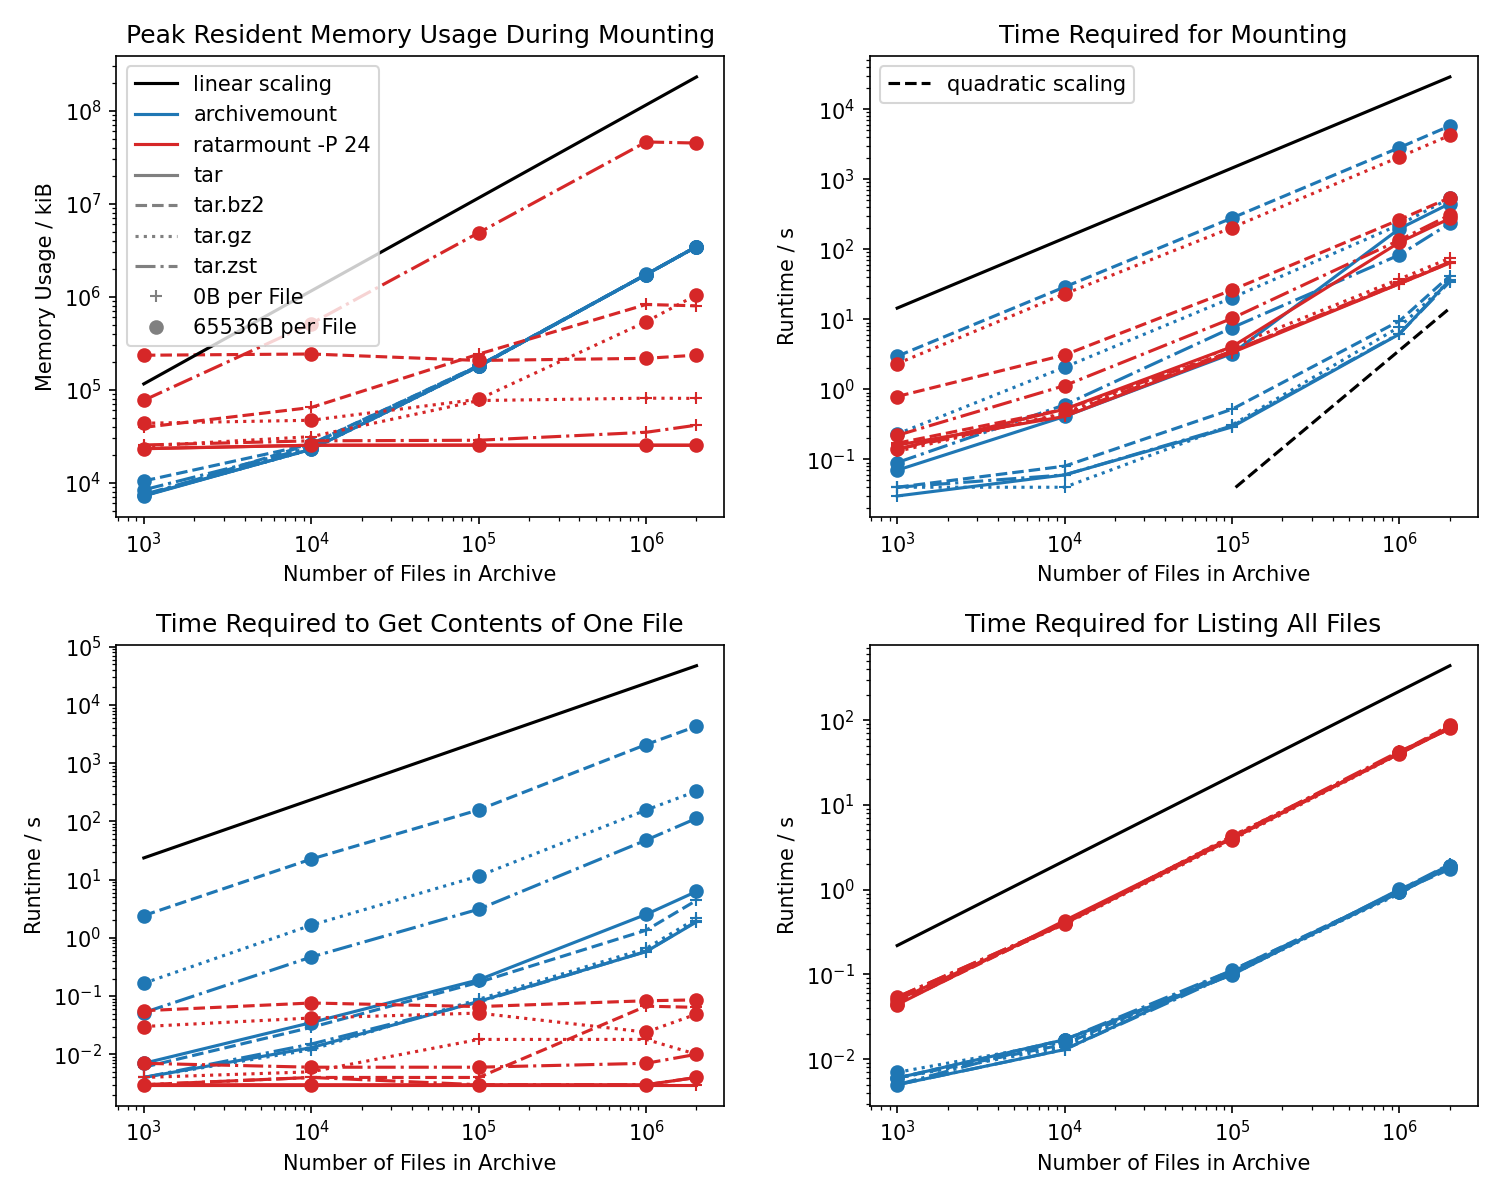
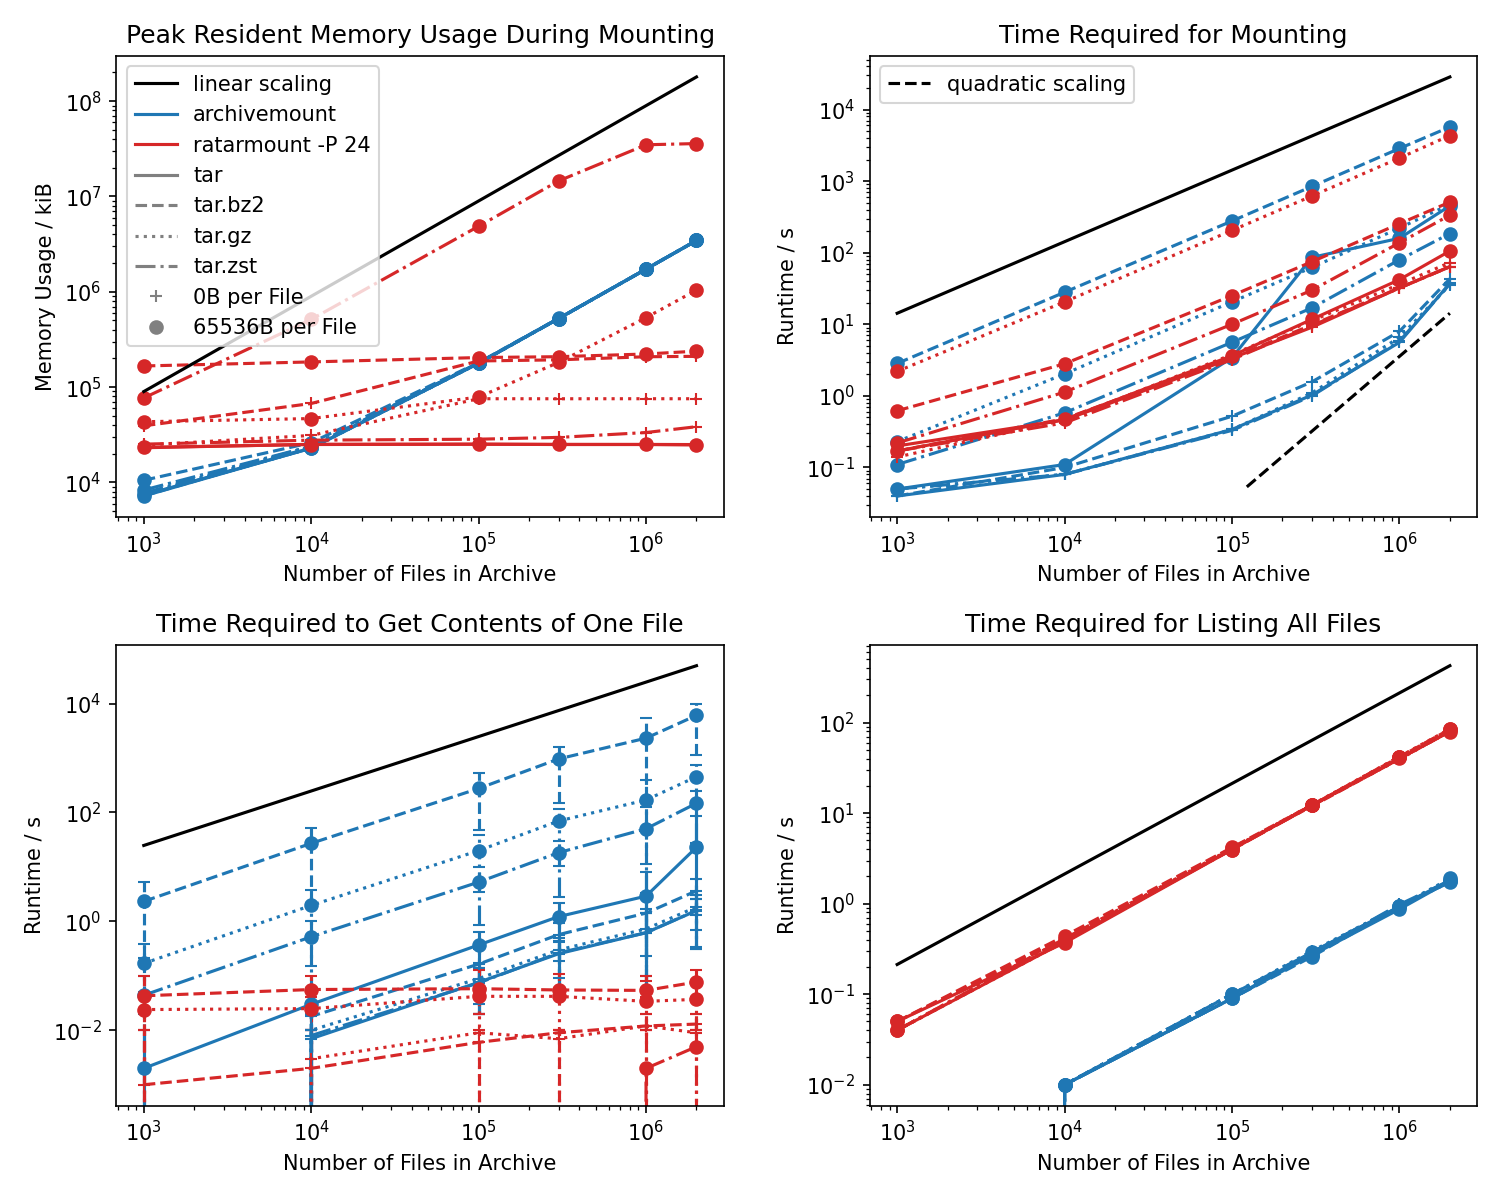
fixup! [doc] Redo benchmark comparison with archivemount

diff --git a/benchmarks/BENCHMARKS.md b/benchmarks/BENCHMARKS.md
@@ -17,23 +17,30 @@ To reduce the clutter, in the plot, the benchmarks with a file size of `64B` hav
 
 Only new observations are mentioned here. The other ones can be read in the older benchmark evaluation below.
 
-The zstd backend, unfortunately comes with the largest memory overhead yet, which seems to be linearly increasing with the file size. The very last measurement indicates that the memory footprint tops out at roughly 50GiB. I do have 62.8 GiB of RAM and I used the PC during the benchmarks, so it might just be that zstd decoder noticed that it becomes close to running out of memory and therefore tries to work with less? Maybe that measurement is an outlier. An out-of-memory kill shouldn't have happened because, then, the other benchmarks wouldn't have run for this configuration.
+The zstd backend, unfortunately comes with the largest memory overhead yet.
+It seems to be linearly increasing with the file size.
+The last measurements indicate that the memory footprint tops out at roughly 50GiB.
+I do have 62.8 GiB of RAM and I used the PC during the benchmarks, so it might just be that zstd decoder noticed that it becomes close to running out of memory and therefore tries to work with the memory it has?
+But an out-of-memory kill shouldn't have happened because, then, the other benchmarks wouldn't have run for this configuration.
 
 The mount time for `0B` files inside the TAR is mainly bounded by I/O for reading the TAR and by the overhead of inserting those file information into the SQLite database.
 That's why for, both, ratarmount and archivemount, the mount time for `0B` files does not vary much between the different compression backends.
 
-Both, ratarmount and archivemount have a sudden slowdown for larger files for uncompressed TAR files.
-As that slowdown is the same for both and because this only happens for the uncompressedd files, which are roughly 20% larger than the compressed ones, I suspect that the SLC-cache for my TLC Crucial MX500 1TB SSD has been depleted.
+Archivemount, and in other benchmarks also ratarmount, has a sudden slowdown for larger files for uncompressed TAR files.
+And it even becomes slightly slower than the zstd compressed TAR.
+This might be because the compressed archives are all roughly 20% smaller.
+Therefore, I suspect I/O issues of some kind.
+E.g., my TLC Crucial MX500 1TB SSD has an SLC-cache whose capacity might be exceeded
 In the benchmark from over a year ago, I didn't observe such a thing.
 Maybe because the SSD had more free space back then.
 
 Mount time with zstd is roughly the same between archivemount and ratarmount and in general the fastest of all compared.
 
-Because of the parallelized `indexed_bzip2` backend, the mount time for .tar.bz2 files could be reduced by roughly factor 12 on my Ryzen 3900X with 12 physical and 24 logical cores. 
+Because of the parallelized `indexed_bzip2` backend, the mount time for .tar.bz2 files could be reduced by roughly factor 12 on my Ryzen 3900X with 12 physical and 24 logical cores.
 Because the parallelization is over blocks, the memory usage for the bz2 backend went up because at least as many bz2 blocks as there is parallelization (24 for these tests) must be hold in memory after prefetching.
 To improve the speed, this is in general even more than that.
 The memory usage is bounded by the maximum block cache size and maximum prefetch size but it might vary because of compression ratios of the blocks itself!
-In the benchmarks, it seems to top out at roughly 800 MiB.
+In the benchmarks, it seems to top out at roughly 200 MiB.
 This shows how important more RAM is to make good use of processors with a lot of cores!
 
 In my biased opinion, bzip2 compressed TAR files are now the best contender after uncompressed TAR files when using ratarmount.
@@ -46,7 +53,7 @@ It has to be explicitly enabled with `-P 0`.
 
 ![Speedup ratarmount -P 24 over -P 1 for bz2 backend](plots/parallel-bz2-ratarmount-comparison.png)
 
-When using all 24 logical cores for the parallel bz2 decoder in `indexed_bzip2`, the speedup tops out at roughly 12, which seems to coincide with my physical cores. 
+When using all 24 logical cores for the parallel bz2 decoder in `indexed_bzip2`, the speedup tops out at roughly 12, which seems to coincide with my physical cores.
 However, with only `-P 12`, the speedup will be much smaller than 12! The latter is not shown here but was observed manually.
 
 In general, the parallelization is quite trivial over the bz2 blocks but there might be reducing the parallel efficiency like I/O access becoming more random instead of sequential or caches being thrashed.
@@ -68,7 +75,7 @@ The killer comparison is the time it takes for `cat <file>` to finish.
 For some reason, this scales linearly with the TAR file size (approx. bytes per file x number of files) for archivemount while being of constant time in ratarmount.
 This makes it look like archivemount does not even support seeking at all.
 
-For compressed TAR files, this is especially noticeable. 
+For compressed TAR files, this is especially noticeable.
 `cat <file>` takes more than twice as long as mounting the whole .tar.bz2 file!
 For example, the TAR with 10k empty(!) files takes 2.9s to mount with archivemount but depending on the file which is accessed, the access with `cat` takes between 3ms and 5s.
 The time it takes seems to depend on the position of the file inside the TAR.
@@ -109,7 +116,7 @@ I hope to make ratarmount the clear winner by parallelizing the bz2 decoder in t
 ## Time to get metadata
 
 When simply listing all files with `find` inside the TAR (find also seems to call stat for each file!?), ratarmount is 10x slower than archivemount for all tested cases.
-I hope to improve upon this in the future. 
+I hope to improve upon this in the future.
 But currently, it looks like a design problem because of using Python and SQLite instead of a pure C program.
 
 
@@ -182,8 +189,8 @@ As can be seen, the `INTEGER` primary key version results in much smaller databa
 
 ![sqlite primary key benchmark times over row count](plots/sqlite%20primary%20key%20benchmark%20times%20over%20row%20count.png)
 
-I concluded that the varchar primary key version was the only real option for usable lookup times for the mounted FUSE system and all conditions except equality should be avoided because only that one seems to be able to capitalize on the sortedness and actually does a bisection search and scales with O(log n). 
-All other statements are ~10k times slower for the case with 2M rows. 
+I concluded that the varchar primary key version was the only real option for usable lookup times for the mounted FUSE system and all conditions except equality should be avoided because only that one seems to be able to capitalize on the sortedness and actually does a bisection search and scales with O(log n).
+All other statements are ~10k times slower for the case with 2M rows.
 This large gap even made benchmarking kinda awkward.
 
 ## Influence of SQL Cache Size on Insertion Times
@@ -196,7 +203,7 @@ This large gap even made benchmarking kinda awkward.
 
 ![sqlite cache size benchmark 1000k files](plots/sqlite%20cache%20size%20benchmark%201000k%20files.png)
 
-This benchmark with 1M files shows that table creation profits quite a lot from high cache sizes. 
+This benchmark with 1M files shows that table creation profits quite a lot from high cache sizes.
 The larger the data is, the more it will profit from higher cache sizes.
 Smaller cache sizes force a preemptive writing to disk, which makes subsequents sorts slower because it has to compare with values on disk.
 
